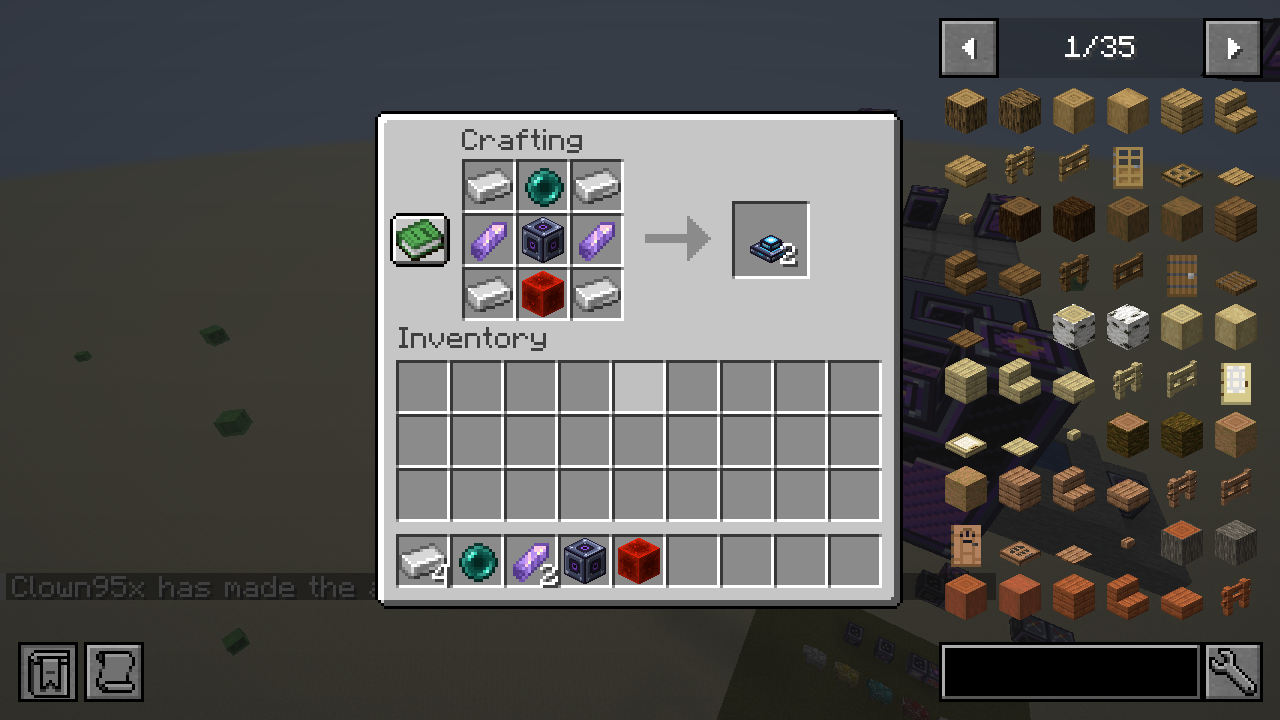
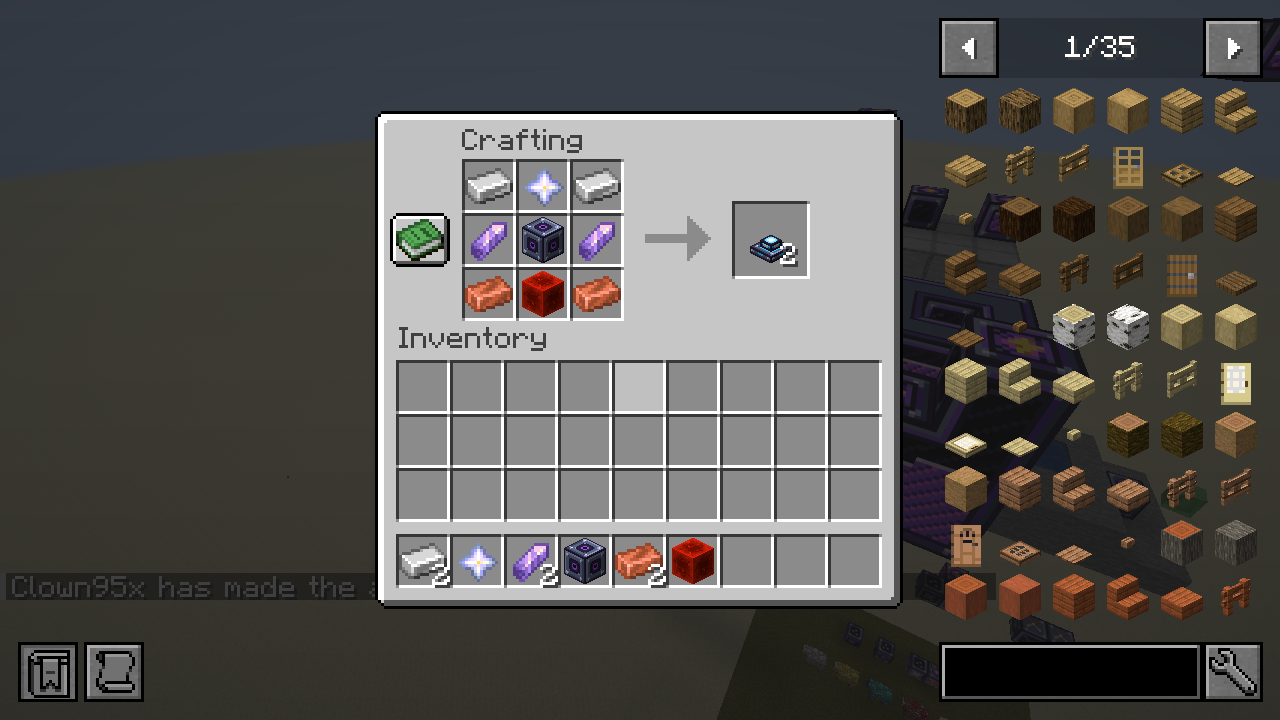
Match the generator script and screenshot to the new Zero Point recipe
The recipe now uses a nether star and copper ingots (changed on GitHub);
generate_data.py writes the same recipe, and the recipe screenshot and
README description show it.

Claude-Session: https://claude.ai/code/session_012iurxobutw9xMP3SqHHLFE

diff --git a/tools/sheep/generate_data.py b/tools/sheep/generate_data.py
@@ -603,12 +603,13 @@ def recipes_loot_tags():
         "category": "redstone",
         "key": {
             "I": "minecraft:iron_ingot",
-            "E": "minecraft:ender_pearl",
+            "C": "minecraft:copper_ingot",
+            "S": "minecraft:nether_star",
             "A": "minecraft:amethyst_shard",
             "M": f"{MOD}:functional_machine_block",
             "R": "minecraft:redstone_block",
         },
-        "pattern": ["IEI", "AMA", "IRI"],
+        "pattern": ["ISI", "AMA", "CRC"],
         "result": {"id": f"{MOD}:zero_point_energy_module", "count": 2},
     })
     write(os.path.join(DATA, MOD, "loot_table", "blocks", "zero_point_energy_module.json"), {

diff --git a/README.md b/README.md
@@ -307,7 +307,7 @@ A generator that comes in pairs. Put one module on the floor and another on the 
 - **Jade** shows whether a module is linked, the gap to its partner and how much it and the pair make. If it isn't linked, it tells you it needs a module facing it in the same column.
 - The recipe makes **two** modules, one pair. Mine them with a stone pickaxe or better.
 
-![Zero Point Energy Module recipe: iron ingots in the corners, an ender pearl top middle, amethyst shards on the sides, a Functional Machine Block in the centre and a block of redstone bottom middle, making 2](docs/screenshots/recipe_zero_point_energy_module.png)
+![Zero Point Energy Module recipe: iron ingots top left and right, a nether star top middle, amethyst shards on the sides, a Functional Machine Block in the centre, copper ingots bottom left and right and a block of redstone bottom middle, making 2](docs/screenshots/recipe_zero_point_energy_module.png)
 
 ### Creative Generator (testing)
 An endless power source for creative mode, for testing builds without setting up mushroom farms. It's a slate block with a pulsing magenta energy core on every side, and it glows in the dark.
